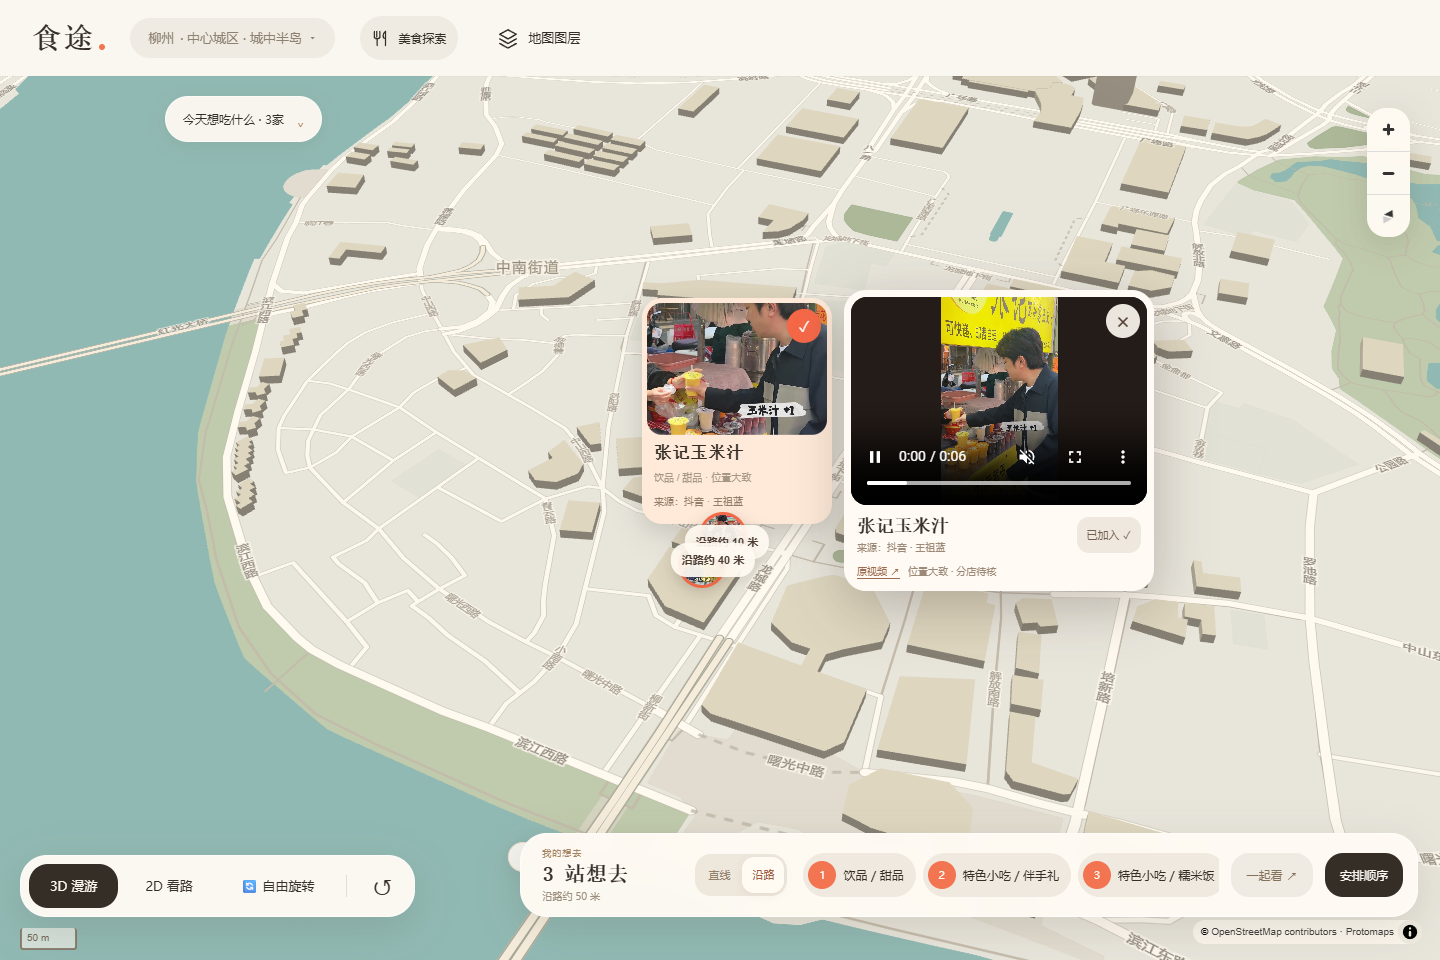
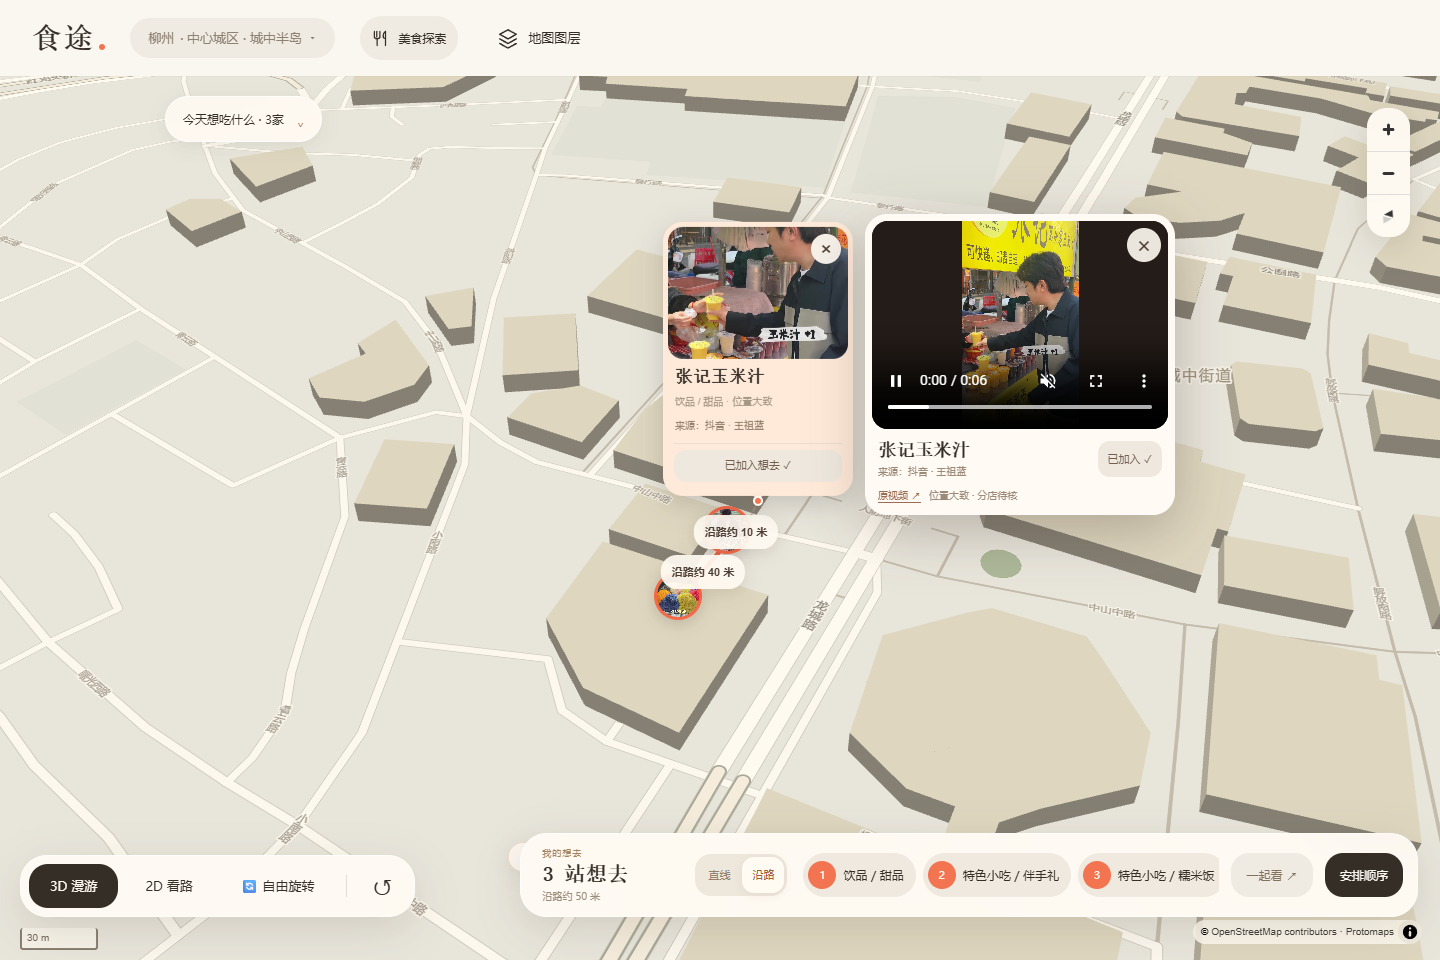
feat(food-overlay): default markers to collapsed circular badges with click expansion and close button

diff --git a/map-base/src/food-overlay.js b/map-base/src/food-overlay.js
@@ -17,9 +17,9 @@ export class FoodOverlay {
     map.on('move',()=>this.scheduleLayout());
     map.on('resize',()=>this.scheduleLayout());
   }
-  replace(records,onOpen=()=>{}) {
+  replace(records,onOpen=()=>{},options={}) {
     this.validate(records,false);
-    return this.render(records,onOpen);
+    return this.render(records,onOpen,options);
   }
   replaceCandidates(records,onOpen=()=>{},options={}) {
     this.validate(records,true);
@@ -40,13 +40,20 @@ export class FoodOverlay {
       if(!Array.isArray(p)||p.length!==2||!p.every(Number.isFinite)||p[0]<b[0]||p[0]>b[2]||p[1]<b[1]||p[1]>b[3])throw new Error('门店坐标超出当前地图覆盖区域');
     }
   }
-  render(records,onOpen,{onToggleSave}={}){
+  render(records,onOpen,{onToggleSave,onClose}={}){
     this.clear();
-    this.popover.setHandler(onToggleSave);
+    this.popover.setHandler(onToggleSave,onClose);
     for(const item of records) {
-      const element=document.createElement('div');element.className='food-card';element.dataset.foodId=item.id;
+      const element=document.createElement('div');element.className='food-card is-collapsed';element.dataset.foodId=item.id;
       element.setAttribute('role','group');element.setAttribute('aria-label',item.name+'美食卡片');
       element.addEventListener('click',event=>event.stopPropagation());
+      const closeButton=document.createElement('button');closeButton.type='button';closeButton.className='food-card-close';
+      closeButton.setAttribute('aria-label','收起'+item.name+'卡片');closeButton.textContent='×';
+      closeButton.addEventListener('click',event=>{
+        event.stopPropagation();
+        if(typeof onClose==='function')onClose(item);
+      });
+      element.append(closeButton);
       const button=document.createElement('button');button.className='food-open';
       button.type='button';button.dataset.foodId=item.id;
       button.setAttribute('aria-label','查看'+item.name);
@@ -75,12 +82,17 @@ export class FoodOverlay {
       const video=originalVideo(item);if(video&&!item.originalVideoURL)item.originalVideoURL=video.url;
       if(actions.childElementCount)element.append(actions);
       const dot=document.createElement('span');dot.className='food-pin';dot.setAttribute('aria-hidden','true');dot.textContent='●';element.append(dot);
-      const marker=new this.Marker({element,anchor:'bottom',offset:[0,-4],pitchAlignment:'viewport',rotationAlignment:'viewport'}).setLngLat(item.coordinates).addTo(this.map);
+      const marker=new this.Marker({element,anchor:'bottom',offset:[0,14],pitchAlignment:'viewport',rotationAlignment:'viewport'}).setLngLat(item.coordinates).addTo(this.map);
       this.markers.push(marker);
-      const entry={item,button,element,marker,saveButton};this.items.push(entry);
+      const entry={item,button,element,marker,saveButton,closeButton};this.items.push(entry);
       if(typeof onToggleSave==='function'){
-        button.addEventListener('pointerenter',event=>{if(event.pointerType==='mouse'&&matchMedia('(hover:hover)').matches)this.popover.scheduleHover(item,entry);});
-        button.addEventListener('focus',()=>{if(button.matches(':focus-visible'))this.popover.show(item,entry);});
+        button.addEventListener('pointerenter',event=>{
+          if(element.classList.contains('is-collapsed'))return;
+          if(event.pointerType==='mouse'&&matchMedia('(hover:hover)').matches)this.popover.scheduleHover(item,entry);
+        });
+        button.addEventListener('focus',()=>{
+          if(!element.classList.contains('is-collapsed')&&button.matches(':focus-visible'))this.popover.show(item,entry);
+        });
         element.addEventListener('pointerleave',()=>this.popover.scheduleClose());
       }
     }
@@ -93,7 +105,7 @@ export class FoodOverlay {
   updateActions(){
     for(const {item,saveButton}of this.items){
       if(!saveButton)continue;const saved=this.wanted.has(item.id);
-      saveButton.textContent=saved?'✓':'+';saveButton.setAttribute('aria-pressed',String(saved));
+      saveButton.textContent=saved?'已加入想去 ✓':'加入想去 ＋';saveButton.setAttribute('aria-pressed',String(saved));
       saveButton.setAttribute('aria-label','将'+item.name+(saved?'从想去移除':'加入想去'));
     }
     this.popover.position();
@@ -102,24 +114,20 @@ export class FoodOverlay {
   scheduleLayout(){if(!this.frame)this.frame=requestAnimationFrame(()=>{this.frame=null;this.layout();});}
   layout(){
     const bounds=this.map.getContainer().getBoundingClientRect(),placed=[];
-    const anchors=this.items.map(({item})=>{const p=this.map.project(item.coordinates);return {id:item.id,x:p.x+bounds.left,y:p.y+bounds.top};});
-    const controls=[...document.querySelectorAll('.maplibregl-ctrl-top-right,.view-dock,#trip-dock,.street-tools,.walk-tools,#food-pick-tools,#walk-panel,.street-note,#road-info,#landmark-note,#video-map-note')].filter(e=>e.getClientRects().length).map(e=>e.getBoundingClientRect());
     const ordered=[...this.items].sort((a,b)=>Number(b.item.id===this.selected)-Number(a.item.id===this.selected)||Number(this.wanted.has(b.item.id))-Number(this.wanted.has(a.item.id)));
     for(const entry of ordered){
-      entry.element.classList.remove('is-collapsed');entry.marker.setOffset([0,-4]);
+      const isSelected=Boolean(this.selected&&entry.item.id===this.selected);
       entry.element.classList.toggle('is-wanted',this.wanted.has(entry.item.id));
-      const r=entry.element.getBoundingClientRect();
-      const overlaps=placed.some(p=>r.left<p.right+12&&r.right>p.left-12&&r.top<p.bottom+12&&r.bottom>p.top-12);
-      const coversControl=controls.some(p=>r.left<p.right+8&&r.right>p.left-8&&r.top<p.bottom+8&&r.bottom>p.top-8);
-      const coversOtherPoint=anchors.some(p=>p.id!==entry.item.id&&r.left<p.x+16&&r.right>p.x-16&&r.top<p.y+16&&r.bottom>p.y-16);
-      const cardLimit=innerWidth<600?1:3;
-      const cropped=r.left<bounds.left+12||r.right>bounds.right-12||r.top<bounds.top+10||r.bottom>bounds.bottom-105;
-      if(this.compact||cropped||coversControl||coversOtherPoint||(placed.length>=cardLimit&&entry.item.id!==this.selected)||(overlaps&&entry.item.id!==this.selected)){
+      entry.element.classList.toggle('is-selected',isSelected);
+      entry.element.style.zIndex=isSelected?'10':'';
+      if(!isSelected||this.compact){
         const focusedAction=entry.element.contains(document.activeElement)&&document.activeElement!==entry.button;
         entry.element.classList.add('is-collapsed');entry.marker.setOffset([0,14]);
         if(focusedAction&&getComputedStyle(entry.element).visibility!=='hidden')entry.button.focus({preventScroll:true});
+      }else{
+        entry.element.classList.remove('is-collapsed');entry.marker.setOffset([0,-4]);
+        placed.push(entry.element.getBoundingClientRect());
       }
-      else placed.push(r);
     }
     this.popover.position();
   }

diff --git a/map-base/src/food-popover.css b/map-base/src/food-popover.css
@@ -5,9 +5,15 @@ body.food-active .topbar .search,body.food-active .topbar .wants-open,.food-mode
 .food-card .food-photo img{display:block;width:100%;height:100%;object-fit:cover;border-radius:15px}
 .food-card strong{padding:4px 7px 0;font-size:17px;line-height:1.3}
 .food-record-state,.food-card .food-category{padding:1px 7px 0;font-size:10px;letter-spacing:0}
-.food-card .food-actions{position:absolute;top:6px;right:6px;z-index:4;display:flex;margin:0;padding:0;border:0}
-.food-card .food-quick-save{display:grid;place-items:center;flex:none;width:34px;min-width:34px;min-height:34px;padding:0;border-radius:50%;font:500 21px/1 sans-serif;background:#fffaf2ef;color:#a9573a;box-shadow:0 3px 12px #3b291b30}
-.food-card .food-quick-save[aria-pressed=true]{background:#f56848;color:white;font-size:15px}
+.food-card .food-actions{position:static;display:flex;margin:6px 6px 2px;padding:6px 0 0;border-top:1px solid #ebdccf;gap:6px}
+.food-card .food-quick-save{flex:1;display:flex;align-items:center;justify-content:center;width:100%;min-height:32px;padding:6px 10px;border:0;border-radius:12px;font-size:11px;font-weight:500;background:#fae0d1;color:#a65b3e;cursor:pointer;box-shadow:none;transition:background .2s,color .2s,transform .15s}
+.food-card .food-quick-save:hover{background:#f4cfbb}
+.food-card .food-quick-save[aria-pressed=true]{background:#eee8de;color:#725d4e;font-size:11px}
+.food-card .food-quick-save[aria-pressed=true]:hover{background:#e4ddcf}
+.food-card-close{position:absolute;top:7px;right:7px;z-index:5;width:30px;height:30px;padding:0;border:0;border-radius:50%;background:#fffaf1f0;backdrop-filter:blur(8px);color:#514034;font-size:20px;line-height:1;cursor:pointer;display:grid;place-items:center;box-shadow:0 2px 10px #3c2a1c29;transition:transform .15s ease,background .15s ease,color .15s ease}
+.food-card-close:hover{transform:scale(1.08);background:#ffffff;color:#1a1410}
+.food-card-close:active{transform:scale(0.95)}
+.food-card.is-collapsed .food-card-close{display:none!important}
 .food-inline-popover{position:absolute;z-index:12;width:min(310px,calc(100% - 24px));padding:6px;border:1px solid #fffaf7;border-radius:22px;background:#fffaf3;box-shadow:0 16px 55px #3b2c2445;opacity:0;transform:translateY(8px) scale(.97);transform-origin:20% 80%;transition:opacity .18s ease,transform .32s cubic-bezier(.2,.85,.2,1.12)}
 .food-inline-popover[hidden]{display:none}.food-inline-popover.is-shown{opacity:1;transform:translateY(0) scale(1)}
 .food-popover-media{position:relative;width:100%;height:208px;border-radius:16px;overflow:hidden;background:#28211d;display:grid;place-items:center}
@@ -34,10 +40,13 @@ body.food-active .topbar .search,body.food-active .topbar .wants-open,.food-mode
 .food-popover-branch-note{margin-left:8px;font-size:10px;color:#9c8977}
 
 .food-cover-pending{display:grid;place-items:center;background:#eee7dc;color:#95816b;font-size:11px}
-.food-card.is-collapsed{width:48px;height:48px;min-width:48px;border-width:3px;box-shadow:0 4px 15px #372b2533}
+.food-card.is-collapsed{width:48px;height:48px;min-width:48px;border-width:3px;border-radius:50%;padding:0;box-shadow:0 4px 15px #372b2533;cursor:pointer;transition:transform .2s cubic-bezier(.2,.85,.2,1.15),box-shadow .2s ease}
+.food-card.is-collapsed:hover{transform:scale(1.12);box-shadow:0 6px 20px #372b254d}
+.food-card.is-collapsed:active{transform:scale(0.95)}
+.food-card.is-collapsed>.food-open{width:100%;height:100%;border-radius:50%;padding:0}
 .food-card.is-collapsed>.food-open>.food-photo{display:block;width:42px;height:42px;border-radius:50%;overflow:hidden}
 .food-card.is-collapsed>.food-open>.food-photo img{border-radius:50%}
-.food-card.is-collapsed>.food-open>.food-photo .photo-note,.food-card.is-collapsed>.food-pin{display:none}
+.food-card.is-collapsed>.food-open>.food-photo .photo-note,.food-card.is-collapsed>.food-pin,.food-card.is-collapsed>.food-actions,.food-card.is-collapsed:after{display:none!important}
 .food-card.is-collapsed.is-wanted{border-color:#f56848}
 .food-card.is-collapsed .food-cover-pending{font-size:8px}
 

diff --git a/map-base/src/food-experience.js b/map-base/src/food-experience.js
@@ -58,6 +58,7 @@ export class FoodExperience{
     });
     byId('food-save').addEventListener('click',()=>{if(this.selected)this.toggleSave(this.selected.id);});
     map.on('movestart',event=>{if(event.originalEvent)this.cancelFocus();});
+    map.on('click',()=>{if(this.active&&this.selected)this.deselectCard();});
     this.dockObserver=new ResizeObserver(()=>{this.map.getContainer().parentElement.style.setProperty('--food-trip-dock-height',byId('trip-dock').offsetHeight+'px');this.overlay.scheduleLayout();});this.dockObserver.observe(byId('trip-dock'));
   }
   cancelFocus(){this.generation++;this.initialPlaceId=null;}
@@ -104,7 +105,7 @@ export class FoodExperience{
     if(requestedPlaceId)byId('status').textContent='这个地点暂不在当前资料中，已展开现有美食候选。';
     const points=this.visibleRecords().map(r=>r.coordinates),xs=points.map(p=>p[0]),ys=points.map(p=>p[1]);
     const padding=this.fitPadding();
-    this.map.fitBounds([[Math.min(...xs),Math.min(...ys)],[Math.max(...xs),Math.max(...ys)]],{padding,maxZoom:16.3,pitch:48,bearing:-24,duration:matchMedia('(prefers-reduced-motion: reduce)').matches?0:1050});
+    this.map.fitBounds([[Math.min(...xs),Math.min(...ys)],[Math.max(...xs),Math.max(...ys)]],{padding,maxZoom:17.5,pitch:48,bearing:-24,duration:matchMedia('(prefers-reduced-motion: reduce)').matches?0:1050});
   }
   deactivate(){
     this.cancelFocus();this.active=false;this.overlay.clear();byId('food-option').checked=false;document.body.classList.remove('food-active');
@@ -116,10 +117,20 @@ export class FoodExperience{
   visibleRecords(category=this.category){return category===null?this.records:this.records.filter(item=>item.category===category);}
   renderCandidates(){
     const records=this.visibleRecords();
-    this.overlay.replaceCandidates(records,item=>this.openMapCard(item),{onToggleSave:item=>this.toggleSave(item.id)});
+    this.overlay.replaceCandidates(records,item=>this.openMapCard(item),{
+      onToggleSave:item=>this.toggleSave(item.id),
+      onClose:item=>this.deselectCard(item)
+    });
     this.overlay.setState(this.selected?.id,this.saved);
     byId('food-pick-label').textContent=this.category===null?'今天想吃什么 · '+records.length+'家':this.category+' · '+records.length+'家';
     byId('food-pick-open').setAttribute('aria-label',this.category===null?'挑选想吃的美食类别':'当前只看'+this.category+'，'+records.length+'家；更换类别或查看全部');
+  }
+  deselectCard(item=null){
+    this.selected=null;
+    this.overlay.setState(null,this.saved);
+    this.overlay.popover.close();
+    this.renderDock();
+    byId('status').textContent='已收起卡片';
   }
   openPicker(){
     if(!this.active||this.phase!=='loaded')return;
@@ -304,7 +315,7 @@ export class FoodExperience{
     }else{
       const points=records.map(item=>item.coordinates);
       if(this.routeMode==='road'&&records.length===this.saved.length&&records.every(item=>this.saved.includes(item.id)))points.push(...this.routePreview.roadPoints||[]);
-      this.map.fitBounds([[Math.min(...points.map(p=>p[0])),Math.min(...points.map(p=>p[1]))],[Math.max(...points.map(p=>p[0])),Math.max(...points.map(p=>p[1]))]],{padding:this.fitPadding(),maxZoom:16.3,pitch:this.map.getPitch(),bearing:this.map.getBearing(),duration});
+      this.map.fitBounds([[Math.min(...points.map(p=>p[0])),Math.min(...points.map(p=>p[1]))],[Math.max(...points.map(p=>p[0])),Math.max(...points.map(p=>p[1]))]],{padding:this.fitPadding(),maxZoom:17.5,pitch:this.map.getPitch(),bearing:this.map.getBearing(),duration});
     }
   }
   renderWants(){

diff --git a/map-base/src/food-popover.js b/map-base/src/food-popover.js
@@ -26,9 +26,16 @@ export class FoodPopover{
     this.element.addEventListener('pointerleave',()=>this.scheduleClose());
     this.map.on('move',()=>this.position());this.map.on('resize',()=>this.position());
     this.map.on('click',()=>this.close());
-    document.addEventListener('keydown',event=>{if(event.key==='Escape'&&this.current){event.stopPropagation();this.close();}});
+    document.addEventListener('keydown',event=>{
+      if(event.key==='Escape'&&this.current){
+        event.stopPropagation();
+        const item=this.current;
+        this.close();
+        if(typeof this.onClose==='function')this.onClose(item);
+      }
+    });
   }
-  setHandler(handler){this.onToggle=handler;}
+  setHandler(handler,onClose=null){this.onToggle=handler;this.onClose=onClose;}
   setWanted(wanted){this.wanted=new Set(wanted);this.updateSave();}
   updateSave(){
     if(!this.saveButton||!this.current)return;
@@ -63,7 +70,12 @@ export class FoodPopover{
         }
       });frame.append(play);
     }else frame.append(el('span','food-popover-missing',item.verificationStatus==='video-location'?'视频待同步':'视频待添加'));
-    const close=el('button','food-popover-close','×');close.type='button';close.setAttribute('aria-label','关闭'+item.name+'预览');close.addEventListener('click',()=>{this.close();entry.button.focus({preventScroll:true});});
+    const close=el('button','food-popover-close','×');close.type='button';close.setAttribute('aria-label','关闭'+item.name+'预览');
+    close.addEventListener('click',()=>{
+      this.close();
+      if(typeof this.onClose==='function')this.onClose(item);
+      entry.button.focus({preventScroll:true});
+    });
     const copy=el('div','food-popover-copy'),heading=el('div','food-popover-heading');
     const title=el('strong','',item.name),credit=foodVideoCredit(item),detail=el('small','',credit||'视频待添加');detail.title=credit||'';heading.append(title,detail);copy.append(heading);
     if(typeof this.onToggle==='function'){
